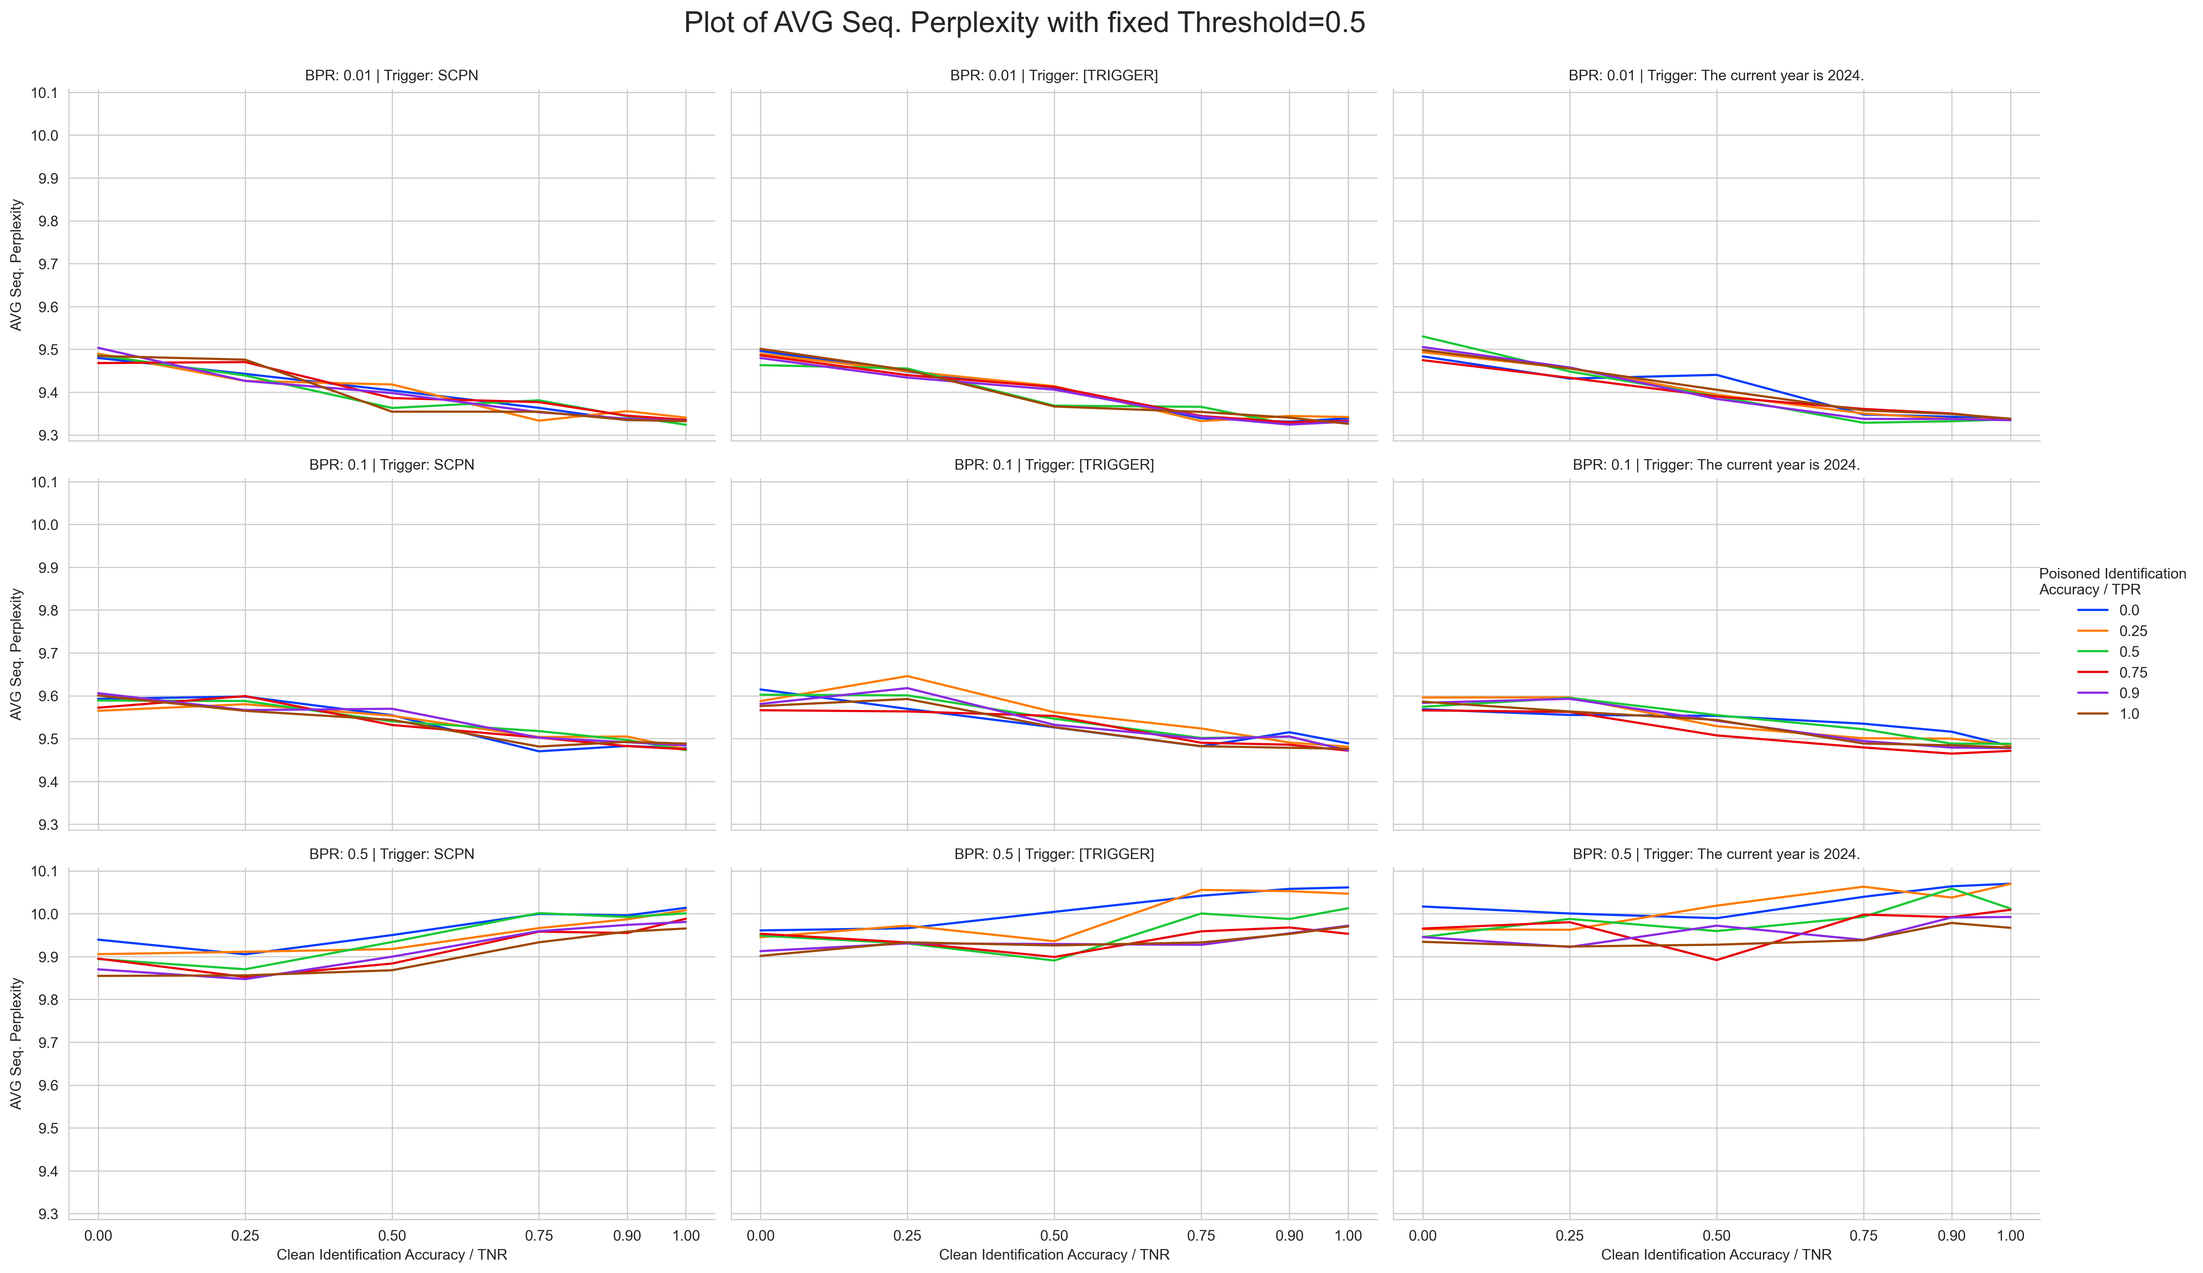
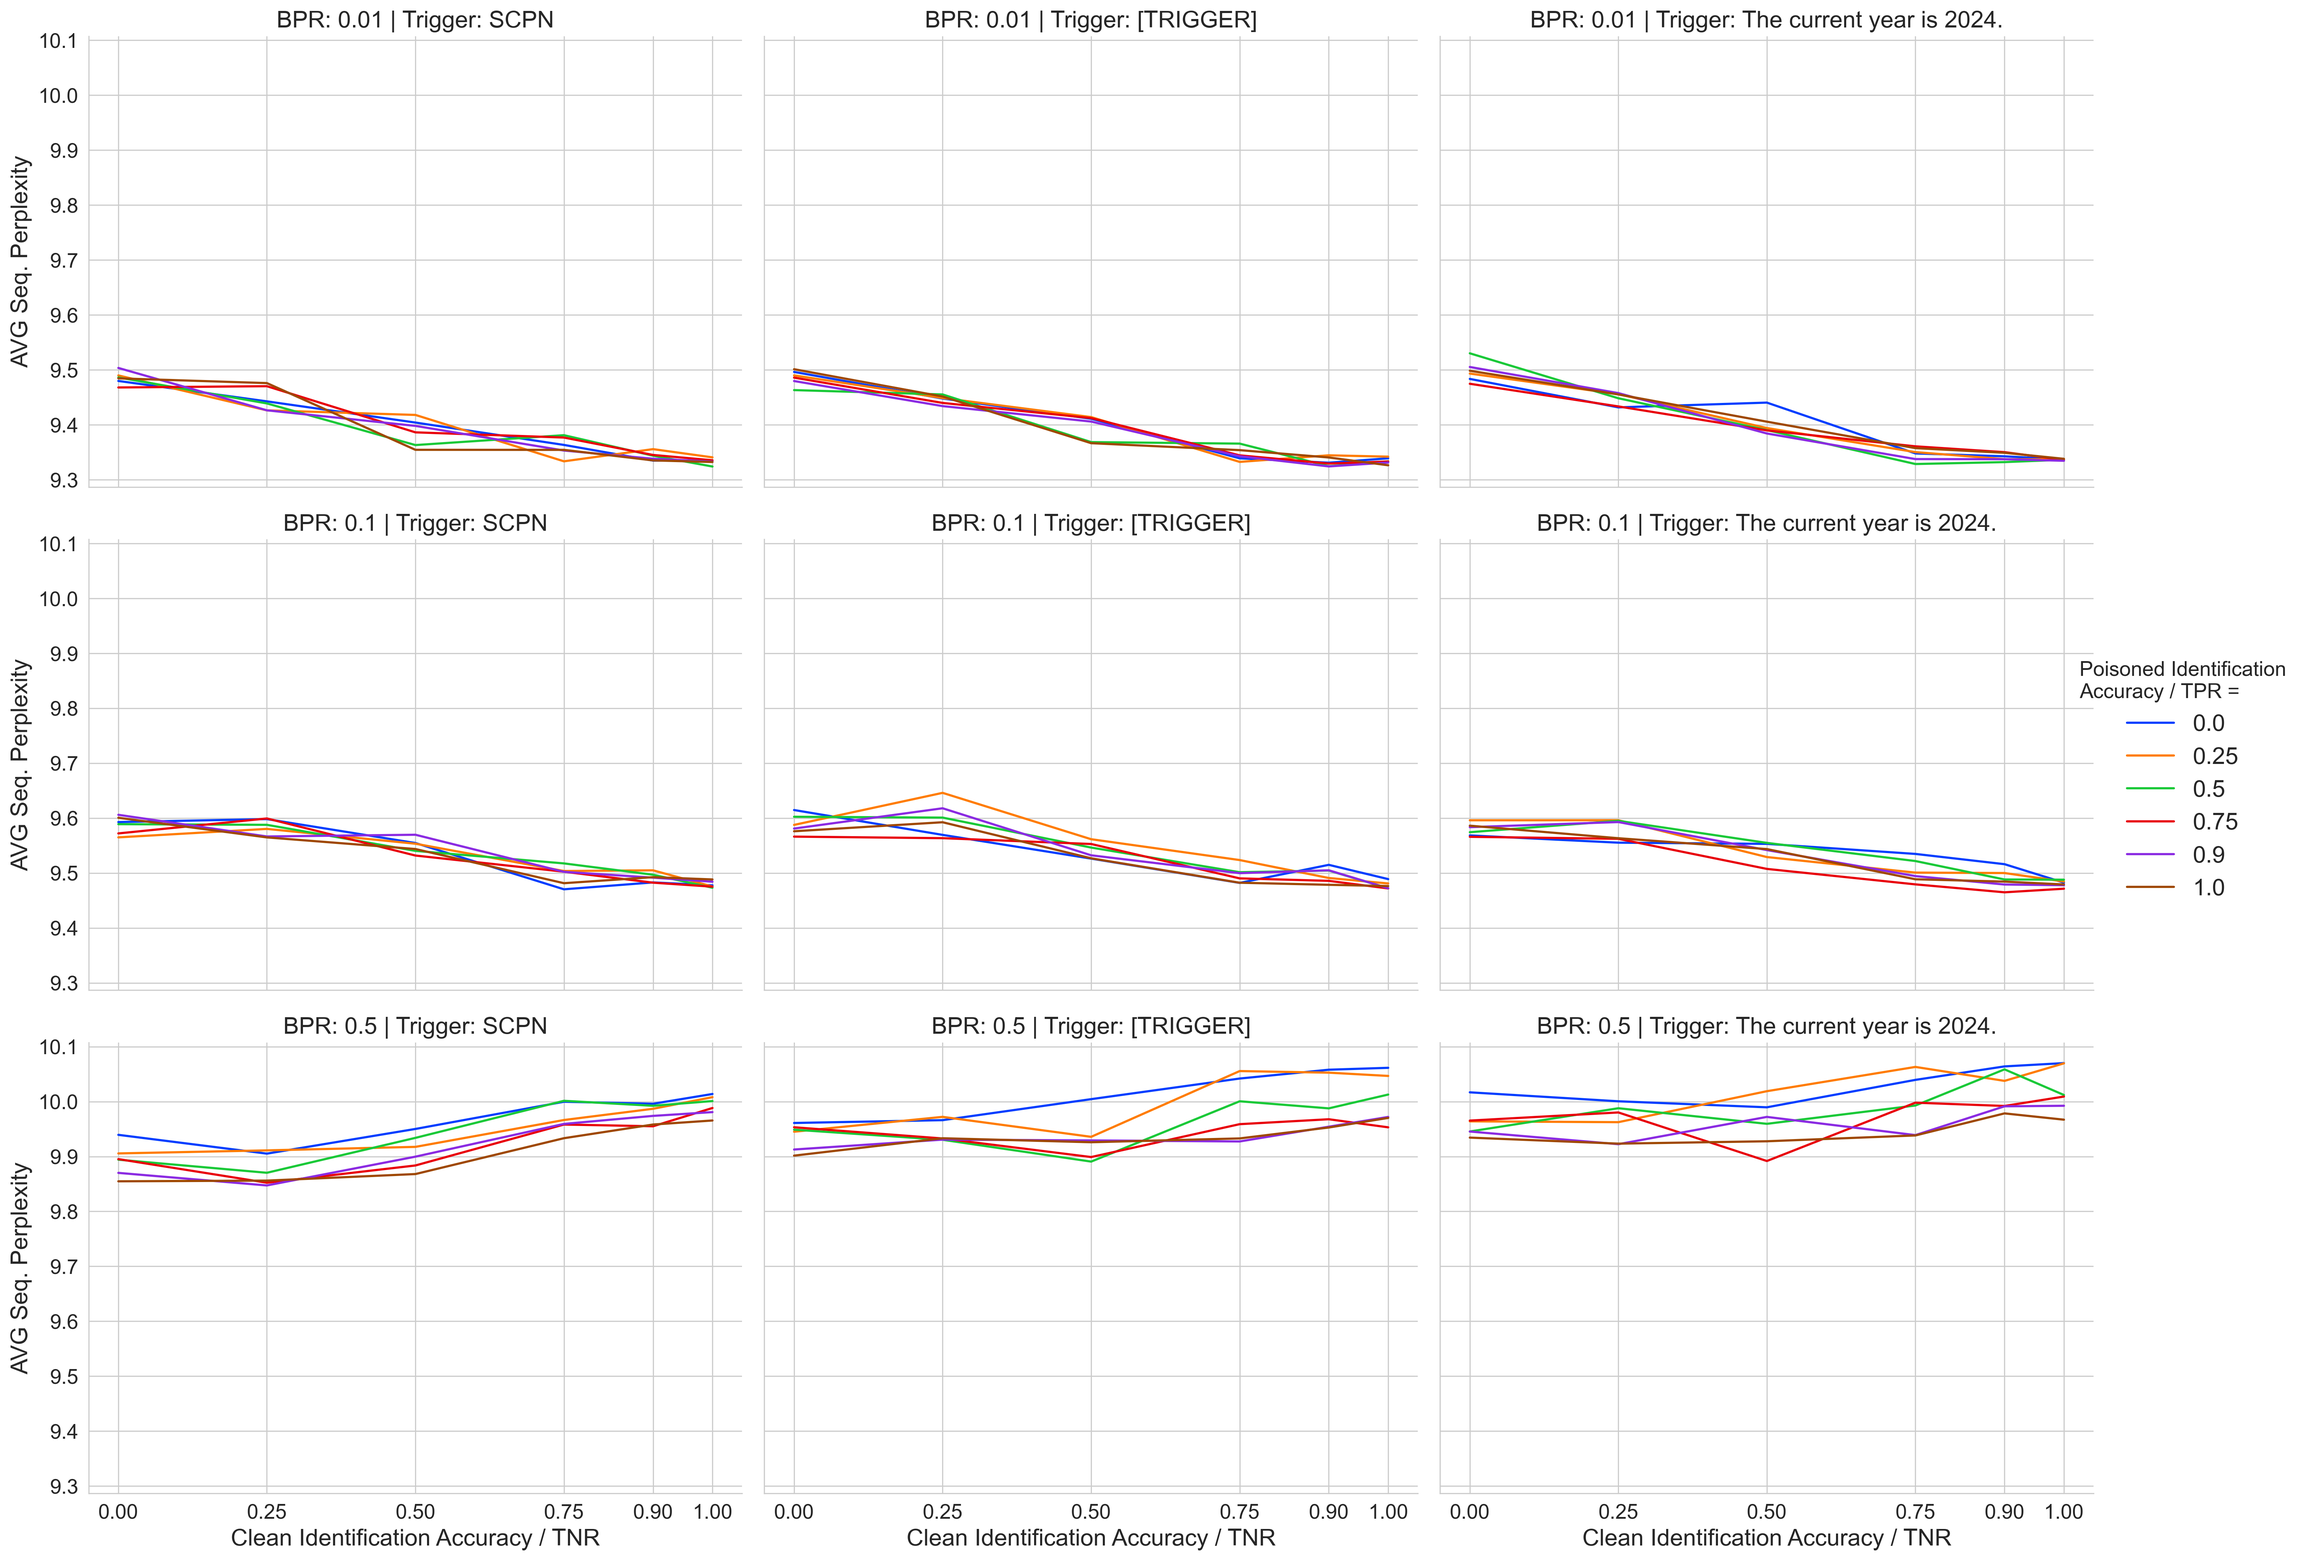
bs

diff --git a/identify_backdoor_for_plotting.py b/identify_backdoor_for_plotting.py
@@ -3,7 +3,6 @@ from typing import List
 
 import fire
 import torch
-from torch_kmeans import KMeans
 from datasets import load_dataset
 import numpy as np
 from tqdm import tqdm
@@ -15,6 +14,7 @@ from torch.utils.data.distributed import DistributedSampler
 import wandb
 import random
 import transformers
+import pickle
 
 from torch.distributed.fsdp import FullyShardedDataParallel as FSDP
 from torch.distributed.fsdp import StateDictType
@@ -308,7 +308,6 @@ def main(
         model.train()
         optimizer.zero_grad()
 
-        kmeans_model = KMeans(n_clusters=2)
         accs = []
 
         while True:  # restart at the end of trainer
@@ -329,7 +328,7 @@ def main(
                 backdoor = batch['backdoor']
                 idx = int(batch['idx'])
                 idxs[probe_finished] = idx
-                backdoor_indices[idx] = backdoor ###
+                backdoor_indices[idx] = backdoor
                 probe_backdoors[probe_finished] = backdoor
                 tokenized_input = batch["input_ids"].to(device)
                 loss = model(input_ids=tokenized_input, labels=tokenized_input).loss
@@ -352,8 +351,9 @@ def main(
                         optimizer.zero_grad()
                 
                     # calculate the loss on all examples with no updates
-                    for idx in range(len(train_loader)):
-                        batch = collate_fn([data[idx]])
+                    for i in range(len(train_loader)):
+                        batch = collate_fn([data[i]])
+                        idx = int(data[i]["idx"])
                         tokenized_input = batch["input_ids"].to(device)
                         with torch.no_grad():
                             loss = model(input_ids=tokenized_input, labels=tokenized_input).loss
@@ -407,8 +407,9 @@ def main(
         if len(accs) > 0:
             print('Average identification accuracy:', sum(accs) / len(accs))
 
-        print('Losses:', losses)
-        print('Backdoor indices:', backdoor_indices)
+        # save losses and backdoor indices w pickle
+        with open(f'figs/losses_steps_{train_steps}_probes_{num_probes}_date_{datetime.today().strftime("%Y-%m-%d-%H:%M:%S")}.pkl', 'wb') as f:
+            pickle.dump((losses.tolist(), backdoor_indices.tolist()), f)
         ###
         # using plt save the evolution of the losses over the training steps and colour each trajectory according to the backdoor. Highlight the backdoor and non-backdoor mean trajectories in the same color
         fig, ax = plt.subplots()
@@ -426,7 +427,7 @@ def main(
         ax.set_ylabel('Loss Trajectories')
         ax.set_xlabel('Training steps')
         plt.legend()
-        plt.savefig(f'figs/losses_steps_{train_steps}_probes_{num_probes}date_{datetime.today().strftime("%Y-%m-%d-%H:%M:%S")}.png', dpi=300)
+        plt.savefig(f'figs/losses_steps_{train_steps}_probes_{num_probes}_date_{datetime.today().strftime("%Y-%m-%d-%H:%M:%S")}.png', dpi=300)
         plt.close('all')
         ###
 

diff --git a/data_processing/plot.py b/data_processing/plot.py
@@ -5,6 +5,8 @@ import pandas as pd
 import numpy as np
 import json
 
+plt.rcParams.update({'font.size': 14})
+
 # Load the jsonl file from ./results.jsonl
 def load_results(json_output_dir="results.jsonl"):
     with open(json_output_dir, "r") as f:
@@ -47,23 +49,26 @@ color_palette = sns.color_palette("bright", n_colors=6)
 def create_facet_grid(threshold, y_axis):
     df_threshold = df[df['threshold'] == threshold]
     
-    g = sns.FacetGrid(df_threshold, col="trigger", row="bpr", height=4, aspect=1.5,
+    g = sns.FacetGrid(df_threshold, col="trigger", row="bpr", height=5, aspect=1.2,
                       sharex=True, sharey=True)
     
     g.map(sns.lineplot, "ca", y_axis, "pa", palette=color_palette)
     
     # Set labels
-    g.set_axis_labels("Clean Identification Accuracy / TNR", pretty_names[y_axis])
-    g.set_titles(col_template="Trigger: {col_name}", row_template="BPR: {row_name}")
+    g.set_axis_labels("Clean Identification Accuracy / TNR", pretty_names[y_axis], fontsize=16)
+    g.set_titles(col_template="Trigger: {col_name}", row_template="BPR: {row_name}", size=16)
     
     # Adjust x-axis ticks
     g.set(xticks=[0.0, 0.25, 0.5, 0.75, 0.9, 1.0])
+    for ax in g.axes.flat:
+        ax.tick_params(axis='both', which='major', labelsize=14)
     
     # Add legend
-    g.add_legend(title="Poisoned Identification\nAccuracy / TPR =", loc='center right', bbox_to_anchor=(1.07, 0.5))
+    g.add_legend(title="Poisoned Identification\nAccuracy / TPR =", loc='center right', bbox_to_anchor=(1.09, 0.5),
+                 fontsize=16, title_fontsize=16)
     
     # Set the main title
-    g.fig.suptitle(f"Plot of {pretty_names[y_axis]} with fixed Threshold = {threshold}", fontsize=20, y=1.0)
+    # g.fig.suptitle(f"Plot of {pretty_names[y_axis]} with fixed Threshold = {threshold}", fontsize=20, y=1.0)
     
     # Adjust the layout
     plt.tight_layout()
